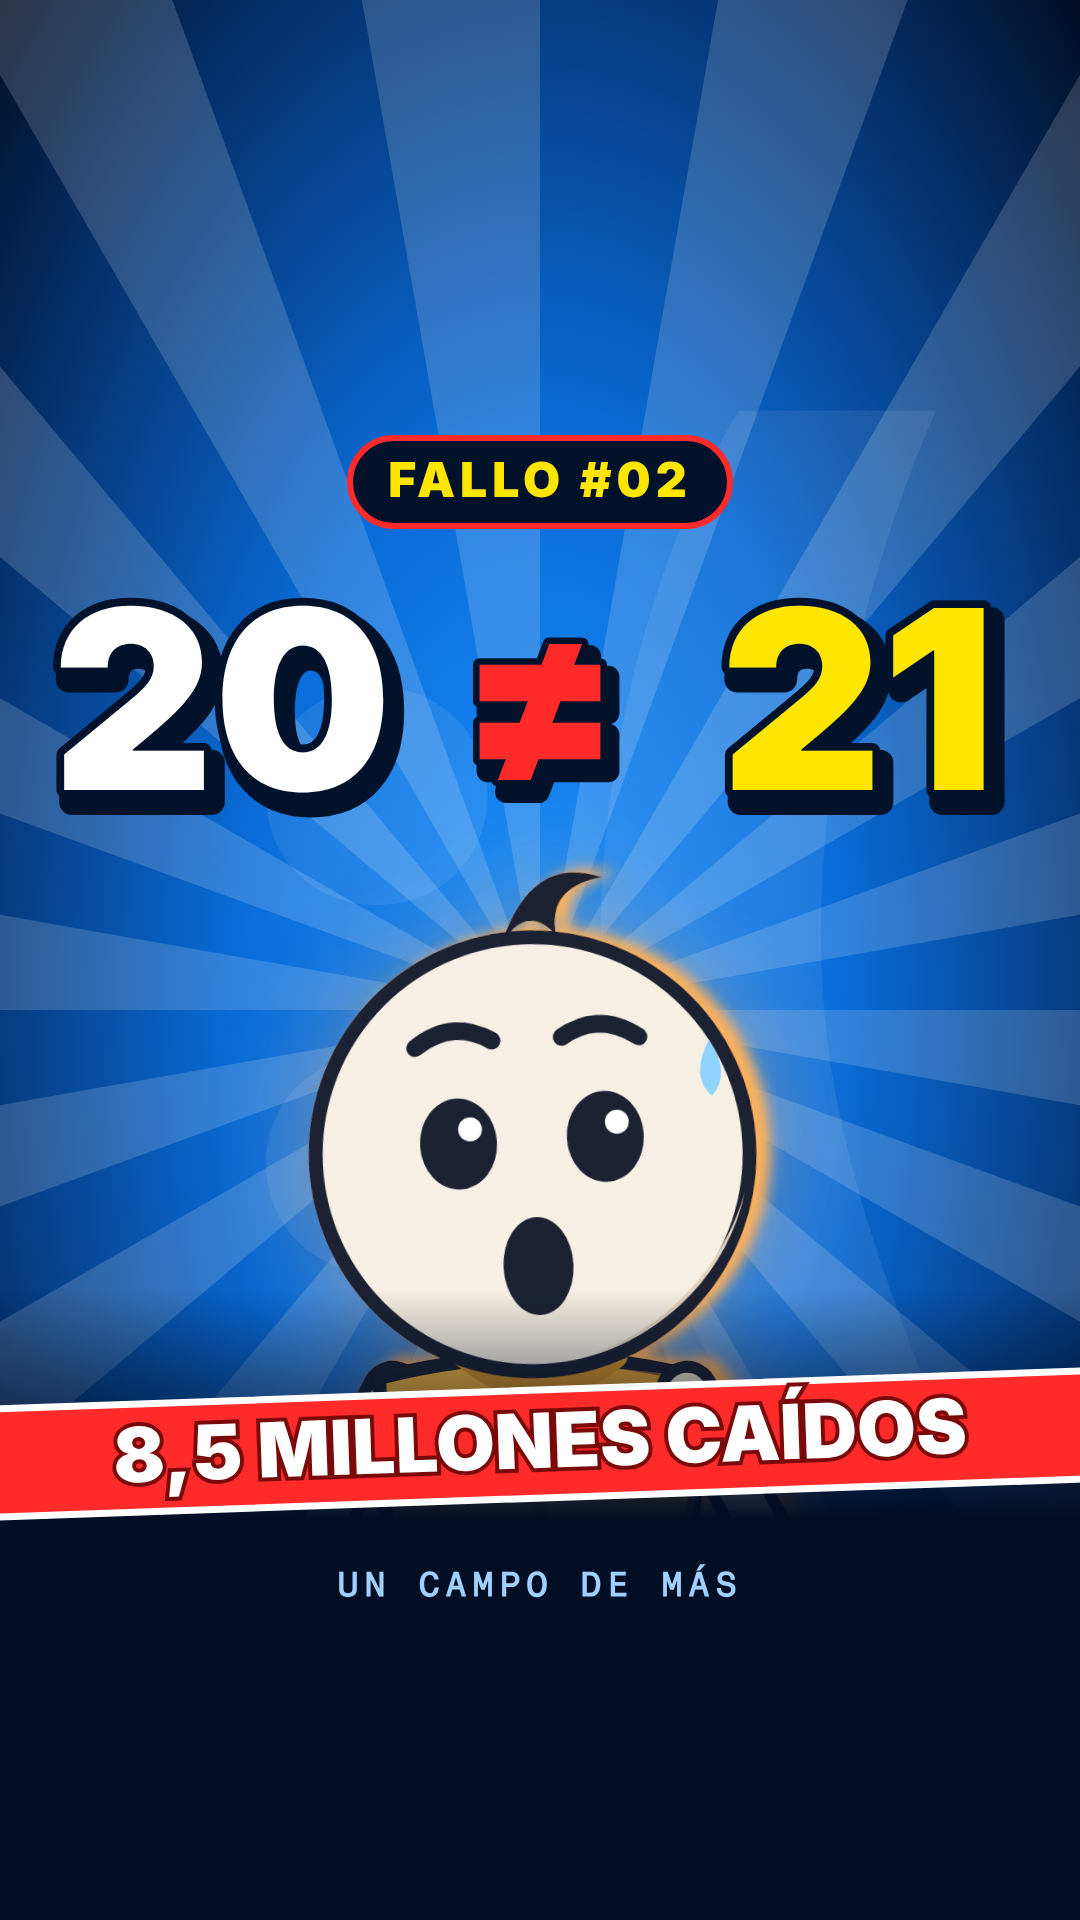
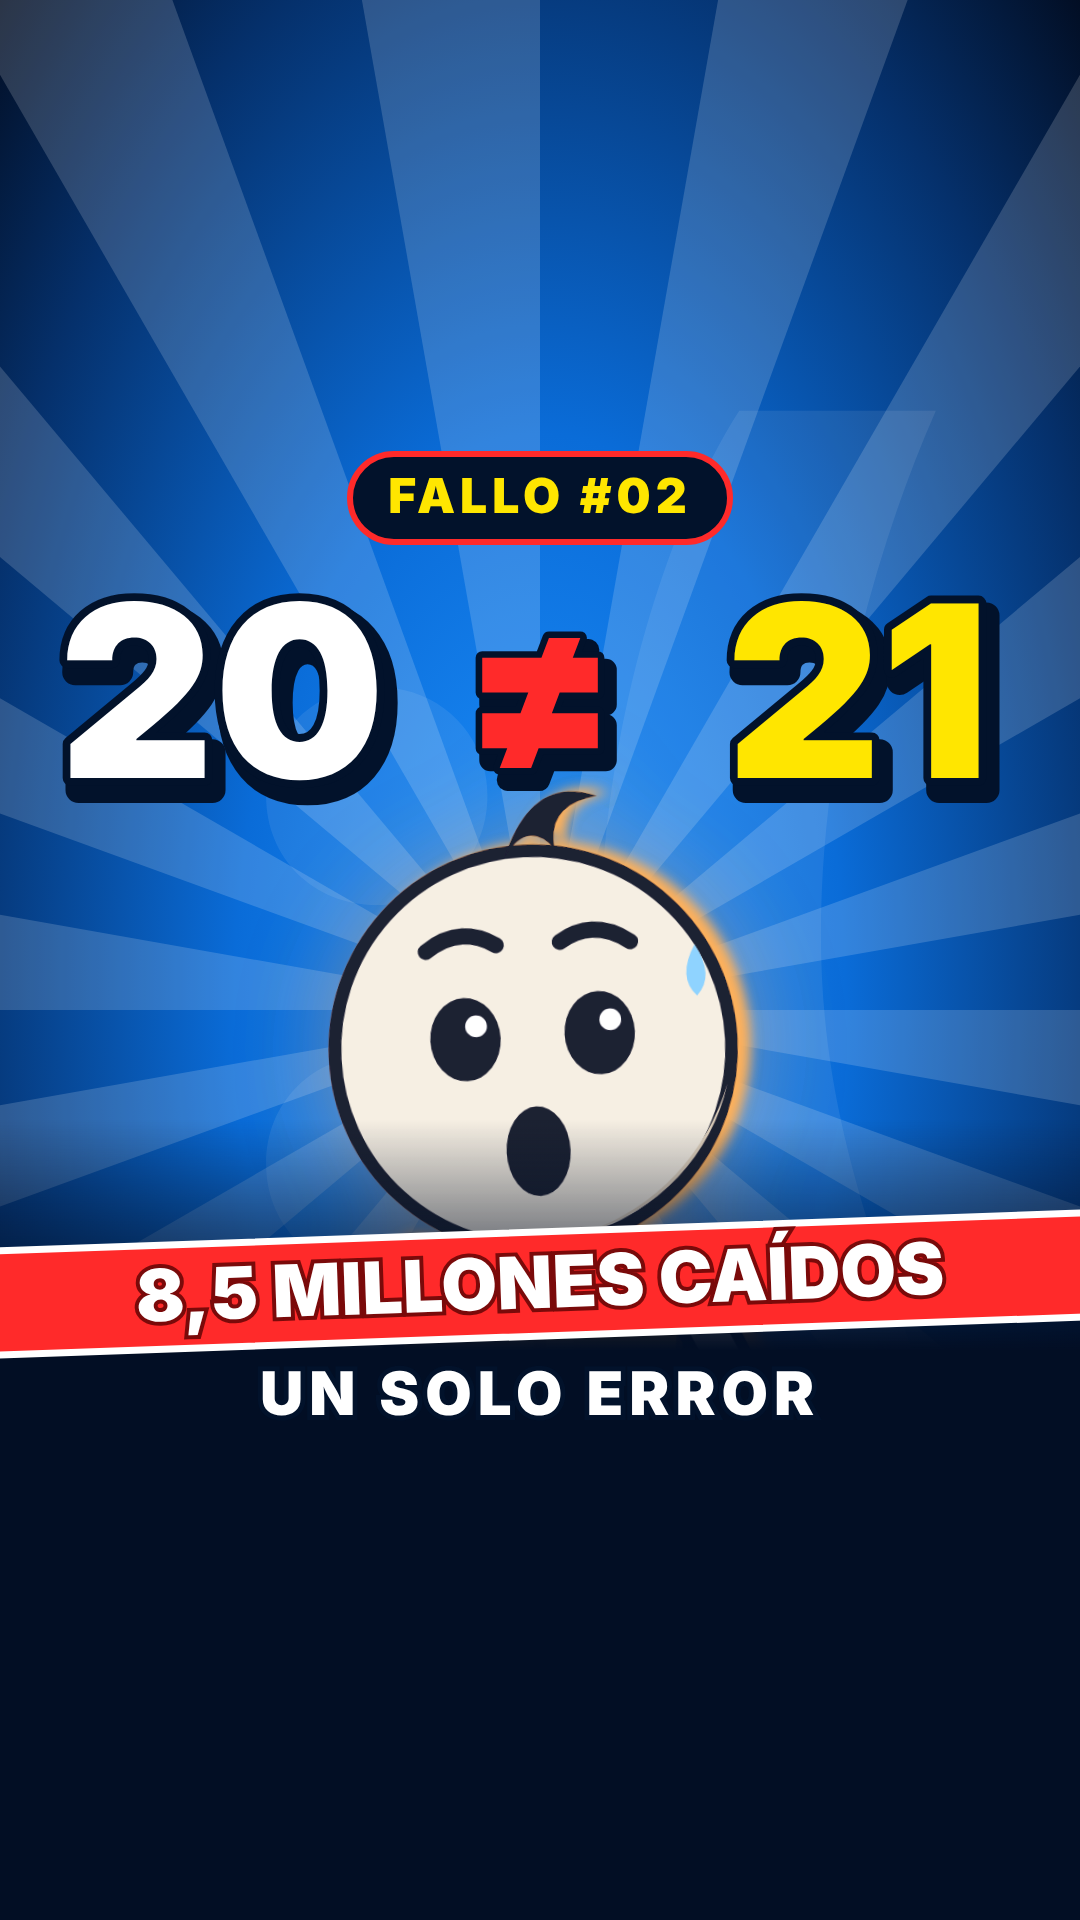
Fallo #02 cover: block compressed inside the 1:1 safe square, UN SOLO ERROR larger
Claude-Session: https://claude.ai/code/session_01UvSALjBVpBVemw6p1kxsgc

diff --git a/what-if-studio/src/fallo02/Cover.tsx b/what-if-studio/src/fallo02/Cover.tsx
@@ -10,7 +10,7 @@ import { HEAVY, MONO } from '../components/motion';
 //   npx remotion still src/index.ts Fallo02Cover out/fallo02/cover.png
 
 const BLUE = '#0A6CD8';
-const POSE: Pose = { ...basePose, x: 540, y: 1770, scale: 3.5, yaw: 0, look: 0, expr: 'shock', armL: { a: 28, b: 20 }, armR: { a: 28, b: 20 }, headTilt: -3 };
+const POSE: Pose = { ...basePose, x: 540, y: 1612, scale: 3.2, yaw: 0, look: 0, expr: 'shock', armL: { a: 28, b: 20 }, armR: { a: 28, b: 20 }, headTilt: -3 };
 
 const Rays: React.FC<{ cx: number; cy: number; n?: number }> = ({ cx, cy, n = 18 }) => (
   <g opacity={0.16}>
@@ -55,29 +55,29 @@ export const Fallo02Cover: React.FC = () => (
         <Hero look={LOOKS.pip} pose={POSE} shadow={0} />
       </g>
       {/* series tag */}
-      <g transform="translate(540 482)">
+      <g transform="translate(540 498)">
         <rect x={-190} y={-44} width={380} height={88} rx={44} fill="#02122B" stroke="#FF2A2A" strokeWidth={6} />
         <text y={15} fontFamily={HEAVY} fontWeight={900} fontSize={48} fill="#FFE600" letterSpacing={5}>
           FALLO #02
         </text>
       </g>
       {/* the idea */}
-      <Big x={222} y={790} size={250} fill="#FFFFFF" text="20" />
+      <Big x={222} y={778} size={240} fill="#FFFFFF" text="20" />
       <g>
-        <Big x={540} y={780} size={230} fill="#FF2A2A" text="≠" sw={22} />
+        <Big x={540} y={768} size={220} fill="#FF2A2A" text="≠" sw={22} />
       </g>
-      <Big x={858} y={790} size={250} fill="#FFE600" text="21" />
+      <Big x={858} y={778} size={240} fill="#FFE600" text="21" />
       {/* the legs and the bottom: a strip with the stake */}
-      <rect x={0} y={1290} width={1080} height={230} fill="url(#cv2-fade)" />
-      <rect x={0} y={1520} width={1080} height={400} fill="#020E24" />
-      <g transform="rotate(-2 540 1440)">
-        <rect x={-20} y={1390} width={1120} height={108} fill="#FF2A2A" stroke="#FFFFFF" strokeWidth={7} />
-        <text x={540} y={1468} fontFamily={HEAVY} fontWeight={900} fontSize={76} fill="#FFFFFF" stroke="#7A0A0A" strokeWidth={8} paintOrder="stroke">
+      <rect x={0} y={1120} width={1080} height={230} fill="url(#cv2-fade)" />
+      <rect x={0} y={1350} width={1080} height={570} fill="#020E24" />
+      <g transform="rotate(-2 540 1285)">
+        <rect x={-20} y={1232} width={1120} height={104} fill="#FF2A2A" stroke="#FFFFFF" strokeWidth={7} />
+        <text x={540} y={1308} fontFamily={HEAVY} fontWeight={900} fontSize={72} fill="#FFFFFF" stroke="#7A0A0A" strokeWidth={8} paintOrder="stroke">
           8,5 MILLONES CAÍDOS
         </text>
       </g>
-      <text x={540} y={1596} fontFamily={MONO} fontWeight={700} fontSize={34} fill="#9FD0FF" letterSpacing={6}>
-        UN CAMPO DE MÁS
+      <text x={540} y={1415} fontFamily={HEAVY} fontWeight={900} fontSize={60} fill="#FFFFFF" stroke="#02122B" strokeWidth={10} paintOrder="stroke" letterSpacing={6}>
+        UN SOLO ERROR
       </text>
     </svg>
   </AbsoluteFill>
